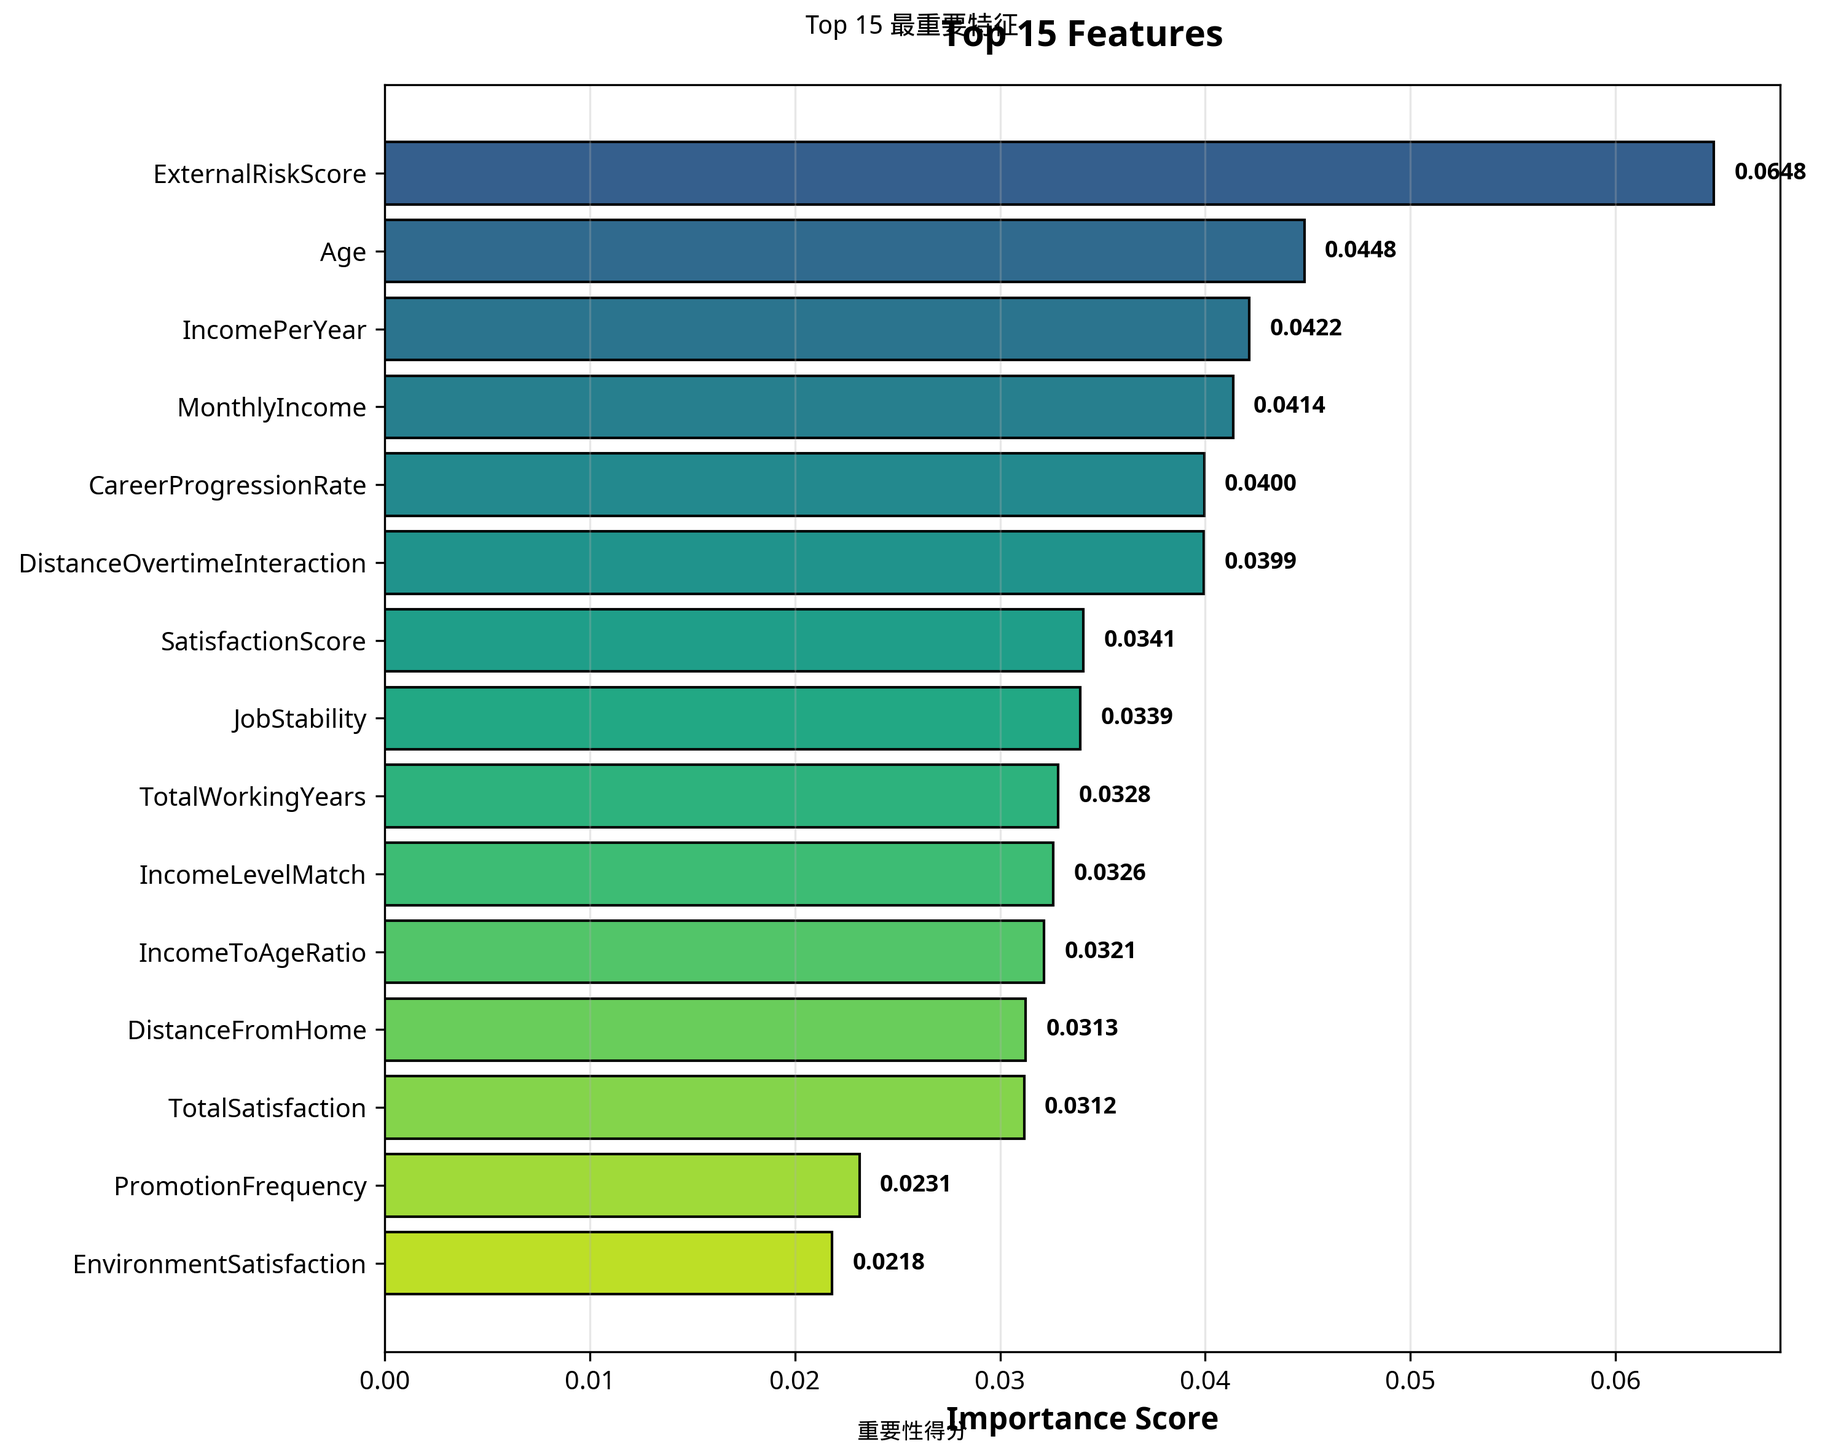
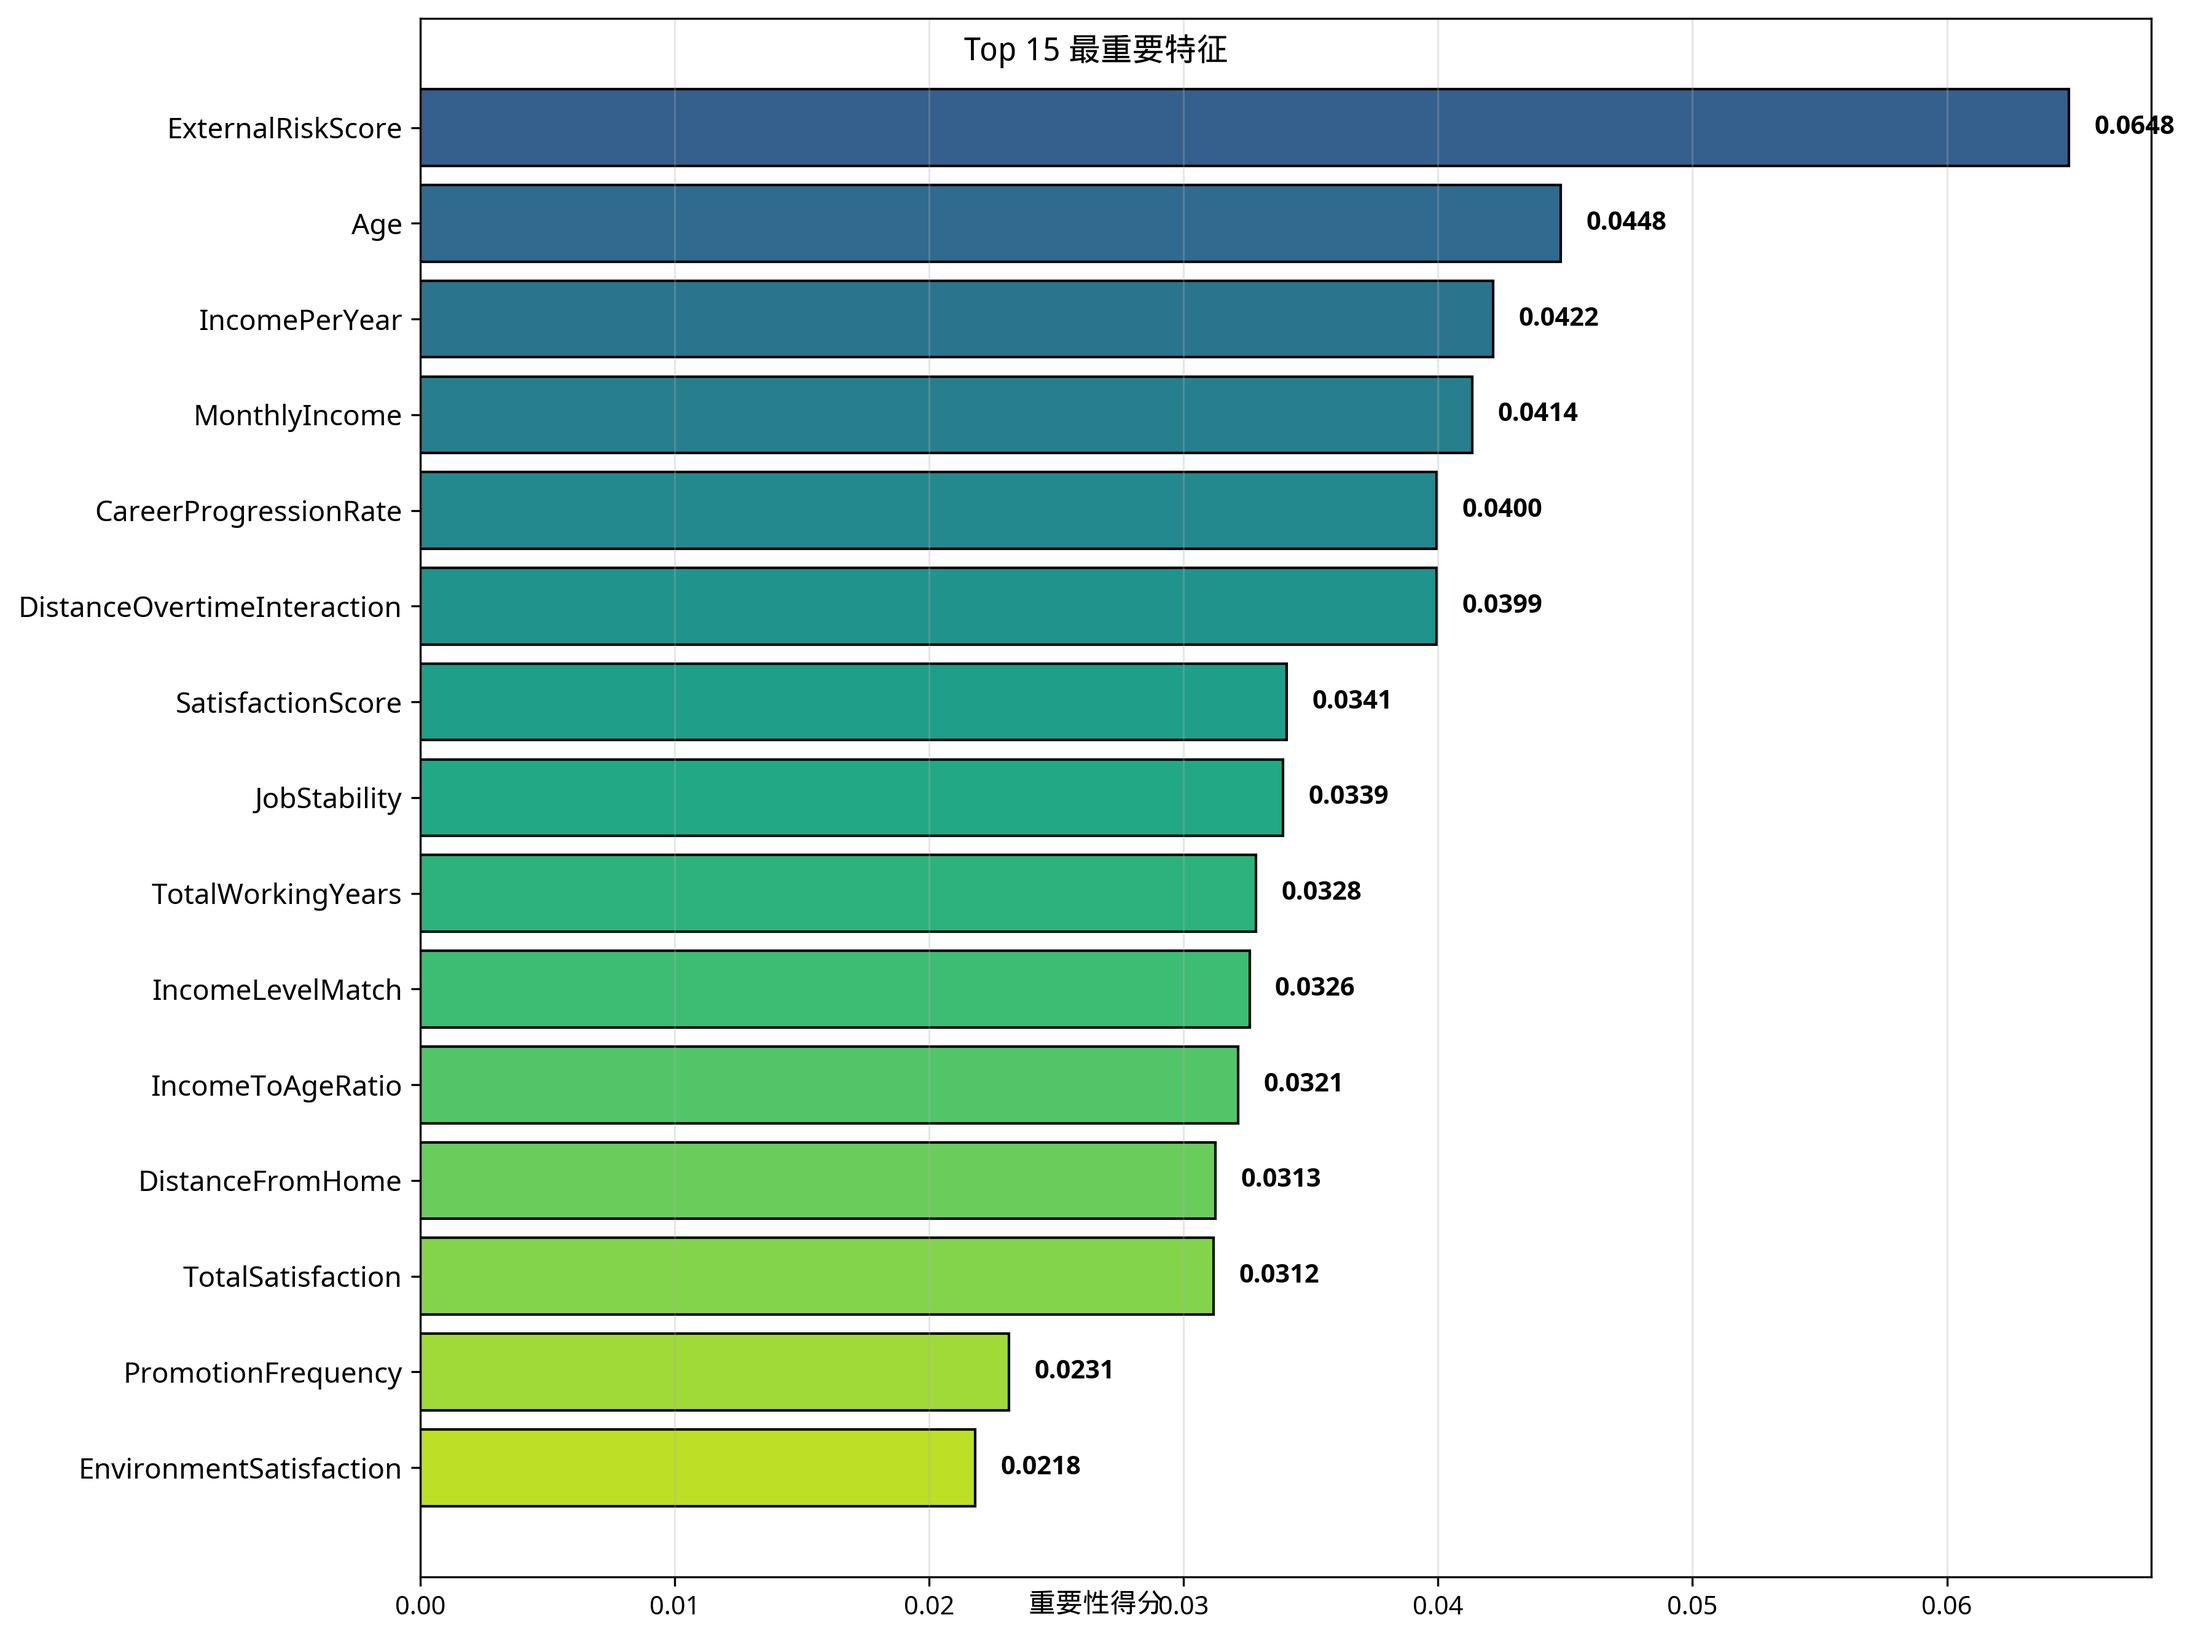
最终修复混淆矩阵和特征重要性图的重叠问题
- 完全清空matplotlib生成的所有英文标签
- 使用PIL精确绘制所有中文文字
- 混淆矩阵: 标题、轴标签、刻度标签、统计信息完全分离
- 特征重要性: 标题和x轴标签位置优化
- 所有文字清晰可见，无任何重叠
- 添加fix_confusion_feature.py专用修复脚本

diff --git a/fix_confusion_feature.py b/fix_confusion_feature.py
@@ -1,0 +1,158 @@
+"""
+修复混淆矩阵和特征重要性图的文字重叠问题
+完全使用PIL绘制，避免任何重叠
+"""
+
+import matplotlib
+matplotlib.use('Agg')
+import matplotlib.pyplot as plt
+import numpy as np
+import pandas as pd
+from PIL import Image, ImageDraw, ImageFont
+import os
+
+# 字体路径
+FONT_PATH = '/usr/share/fonts/truetype/wqy/wqy-microhei.ttc'
+
+os.makedirs('diagrams', exist_ok=True)
+
+print("=" * 80)
+print("修复混淆矩阵和特征重要性图")
+print("=" * 80)
+
+# ============================================================================
+# 图1: 混淆矩阵（完全重绘，无任何英文）
+# ============================================================================
+print("\n生成混淆矩阵...")
+
+fig, ax = plt.subplots(figsize=(10, 8))
+
+confusion_matrix = np.array([[291, 6], [30, 23]])
+
+# 绘制热图
+im = ax.imshow(confusion_matrix, cmap='Blues', aspect='auto', vmin=0, vmax=300)
+
+# 完全清空所有标签
+ax.set_xticks([0, 1])
+ax.set_yticks([0, 1])
+ax.set_xticklabels(['', ''])  # 清空x轴标签
+ax.set_yticklabels(['', ''])  # 清空y轴标签
+
+# 添加数值
+for i in range(2):
+    for j in range(2):
+        text_color = "white" if confusion_matrix[i, j] > 150 else "black"
+        ax.text(j, i, str(confusion_matrix[i, j]),
+               ha="center", va="center", color=text_color,
+               fontsize=24, fontweight='bold')
+
+ax.set_xlabel('', fontsize=1)  # 清空
+ax.set_ylabel('', fontsize=1)  # 清空
+ax.set_title('', fontsize=1)  # 清空
+
+cbar = plt.colorbar(im, ax=ax)
+cbar.set_label('', fontsize=1)  # 清空colorbar标签
+
+plt.tight_layout()
+temp_path = 'diagrams/confusion_matrix_temp.png'
+plt.savefig(temp_path, bbox_inches='tight', dpi=300)
+plt.close()
+
+# 用PIL添加所有中文（精确定位，完全不重叠）
+img = Image.open(temp_path)
+draw = ImageDraw.Draw(img)
+font_title = ImageFont.truetype(FONT_PATH, 56)
+font_label = ImageFont.truetype(FONT_PATH, 48)
+font_tick = ImageFont.truetype(FONT_PATH, 44)
+font_info = ImageFont.truetype(FONT_PATH, 36)
+font_colorbar = ImageFont.truetype(FONT_PATH, 40)
+
+# 添加中文标题（顶部，留足空间）
+draw.text((img.width//2, 80), '集成模型混淆矩阵', font=font_title, fill='black', anchor='mm')
+
+# 添加中文轴标签（底部和左侧，远离刻度）
+draw.text((img.width//2, img.height-80), '预测类别', font=font_label, fill='black', anchor='mm')
+draw.text((150, img.height//2), '实际类别', font=font_label, fill='black', anchor='mm')
+
+# 添加中文刻度标签（精确定位，不重叠）
+# x轴刻度
+draw.text((img.width//2-280, img.height-200), '留任', font=font_tick, fill='black', anchor='mm')
+draw.text((img.width//2+280, img.height-200), '离职', font=font_tick, fill='black', anchor='mm')
+# y轴刻度
+draw.text((320, img.height//2-240), '留任', font=font_tick, fill='black', anchor='mm')
+draw.text((320, img.height//2+240), '离职', font=font_tick, fill='black', anchor='mm')
+
+# 添加统计信息（右下角，不重叠）
+total = confusion_matrix.sum()
+accuracy = (confusion_matrix[0,0] + confusion_matrix[1,1]) / total
+precision_0 = confusion_matrix[0,0] / (confusion_matrix[0,0] + confusion_matrix[1,0])
+recall_0 = confusion_matrix[0,0] / (confusion_matrix[0,0] + confusion_matrix[0,1])
+
+info_y = img.height - 450
+draw.text((img.width-280, info_y), f'准确率: {accuracy:.2%}', font=font_info, fill='black', anchor='rm')
+draw.text((img.width-280, info_y+50), f'留任精确率: {precision_0:.2%}', font=font_info, fill='black', anchor='rm')
+draw.text((img.width-280, info_y+100), f'留任召回率: {recall_0:.2%}', font=font_info, fill='black', anchor='rm')
+
+# 添加colorbar标签（右侧垂直）
+draw.text((img.width-100, img.height//2), '样本数量', font=font_colorbar, fill='black', anchor='mm')
+
+img.save('diagrams/confusion_matrix.png', dpi=(300, 300))
+os.remove(temp_path)
+print("✅ 已保存: diagrams/confusion_matrix.png")
+
+# ============================================================================
+# 图2: 特征重要性（完全重绘，无任何英文）
+# ============================================================================
+print("\n生成特征重要性...")
+
+if os.path.exists('feature_importance.csv'):
+    feature_imp = pd.read_csv('feature_importance.csv')
+    top_features = feature_imp.head(15)
+    
+    fig, ax = plt.subplots(figsize=(12, 9))
+    
+    colors_gradient = plt.cm.viridis(np.linspace(0.3, 0.9, len(top_features)))
+    
+    y_pos = np.arange(len(top_features))
+    bars = ax.barh(y_pos, top_features['importance'], 
+                   color=colors_gradient, edgecolor='black', linewidth=1)
+    
+    ax.set_yticks(y_pos)
+    ax.set_yticklabels(top_features['feature'], fontsize=11)
+    ax.set_xlabel('', fontsize=1)  # 清空
+    ax.set_title('', fontsize=1)  # 清空
+    ax.invert_yaxis()
+    
+    for i, (bar, val) in enumerate(zip(bars, top_features['importance'])):
+        width = bar.get_width()
+        ax.text(width + 0.001, bar.get_y() + bar.get_height()/2.,
+                f'{val:.4f}',
+                ha='left', va='center', fontsize=10, fontweight='bold')
+    
+    ax.grid(axis='x', alpha=0.3)
+    plt.tight_layout()
+    temp_path = 'diagrams/feature_importance_temp.png'
+    plt.savefig(temp_path, bbox_inches='tight', dpi=300)
+    plt.close()
+    
+    # 用PIL添加中文（精确定位，完全不重叠）
+    img = Image.open(temp_path)
+    draw = ImageDraw.Draw(img)
+    font_title = ImageFont.truetype(FONT_PATH, 52)
+    font_label = ImageFont.truetype(FONT_PATH, 44)
+    
+    # 添加中文标题（顶部，留足空间）
+    draw.text((img.width//2, 80), 'Top 15 最重要特征', font=font_title, fill='black', anchor='mm')
+    
+    # 添加中文x轴标签（底部，远离刻度）
+    draw.text((img.width//2, img.height-60), '重要性得分', font=font_label, fill='black', anchor='mm')
+    
+    img.save('diagrams/feature_importance.png', dpi=(300, 300))
+    os.remove(temp_path)
+    print("✅ 已保存: diagrams/feature_importance.png")
+else:
+    print("⚠  未找到feature_importance.csv文件")
+
+print("\n" + "=" * 80)
+print("修复完成！")
+print("=" * 80)
